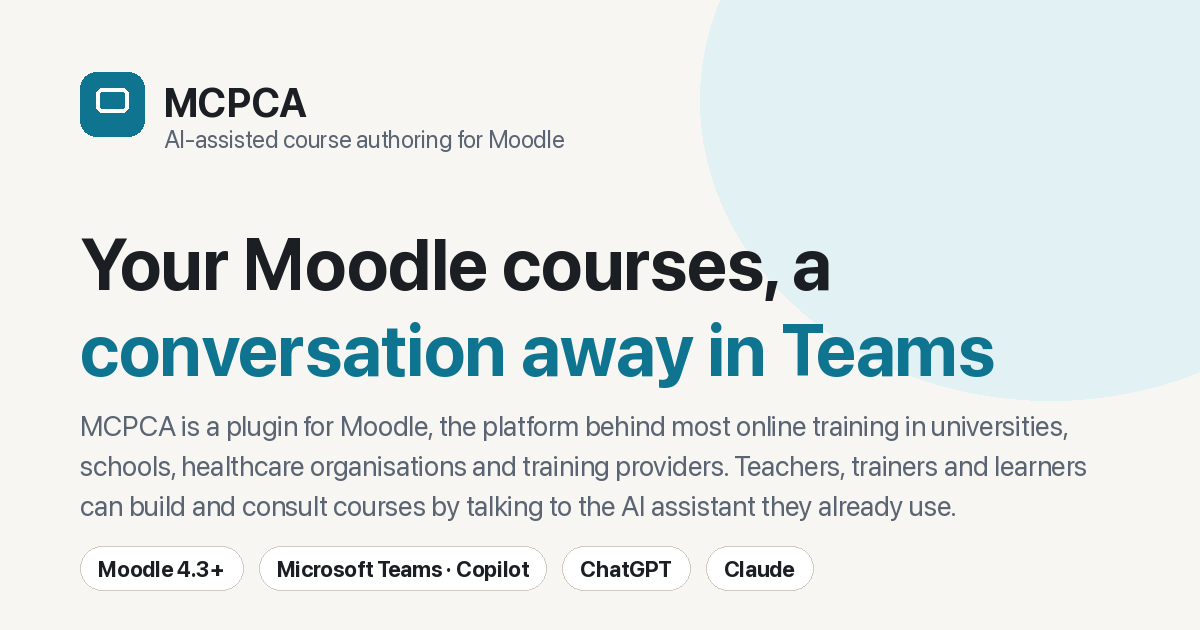
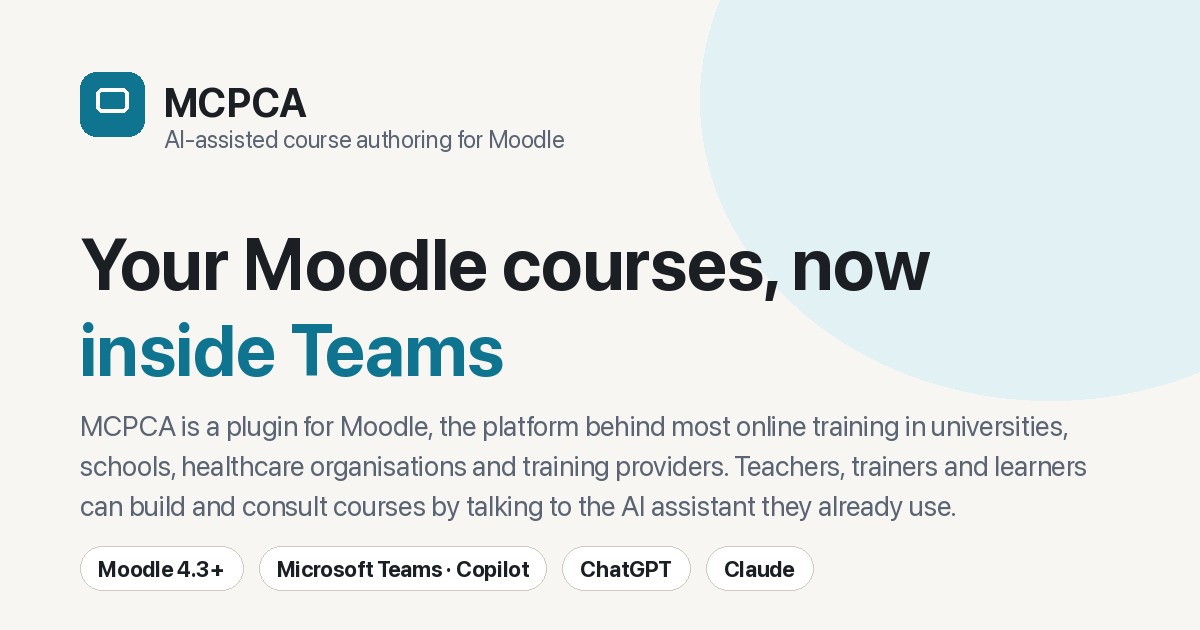
fix: hero order — diagram first, then a connecting line, then the buttons
- the diagram and the CTA row were touching; the diagram now comes first and a
  short line about institutional sign-in separates the two, with a hairline rule
- that line brings back the point dropped when the hero copy was shortened
- on phones the buttons stay above the diagram, which is tall in one column
- a short-screen media query keeps the whole hero above the fold at 1280x720,
  with 32px to spare in both languages
- the English title was running to three lines: 'now inside' replaces
  'a conversation away in'

Changed region(s): [[0.0617, 0.5127, 0.8325, 0.6333], [0.6475, 0.3921, 0.7708, 0.4825]]

diff --git a/static/style.css b/static/style.css
@@ -218,7 +218,7 @@ img, svg { display: inline-block; vertical-align: middle; }
 .stub-notice p { background: var(--student-soft); color: var(--student); border-radius: 10px; padding: 10px 14px; font-weight: 500; margin: 0; }
 
 /* ---------- hero ---------- */
-.hero { padding: 36px 0 52px; position: relative; overflow: hidden; }
+.hero { padding: 26px 0 48px; position: relative; overflow: hidden; }
 .hero::before {
   content: ""; position: absolute; inset: -20% -10% auto -10%; height: 70%; z-index: -1;
   background: radial-gradient(60% 60% at 70% 30%, color-mix(in srgb, var(--accent) 14%, transparent), transparent 70%);
@@ -431,7 +431,7 @@ img, svg { display: inline-block; vertical-align: middle; }
 @media (max-width: 1240px) { .brand-tag { display: none; } }
 .flow-node:first-child { flex: 1.6 1 0; }
 /* Titolo più grande e con più aria sotto: è la prima cosa che si legge. */
-h1 { font-size: clamp(2.2rem, 4.15vw, 3.25rem); line-height: 1.08; margin-bottom: .4em; }
+h1 { font-size: clamp(2.2rem, 4.15vw, 3.25rem); line-height: 1.08; margin-bottom: .36em; }
 .hero-copy .lead { margin-top: 0; }
 
 /* The English tagline is longer than the Italian one: keep it on one line,
@@ -612,7 +612,7 @@ em { font-style: italic; }
 
 /* Nell'hero: prima una riga di contesto in sordina, poi la promessa, che si
    apre con il nome del progetto ed è il paragrafo che deve pesare. */
-.hero-copy .lead-intro { font-size: 1.05rem; color: var(--muted); margin-bottom: .55em; }
+.hero-copy .lead-intro { font-size: 1.05rem; color: var(--muted); margin-bottom: .45em; }
 .hero-copy .lead-promise { font-size: 1.22rem; color: var(--text); line-height: 1.5; }
 .hero-copy .lead-promise .product { font-size: 1.06em; }
 
@@ -620,14 +620,39 @@ em { font-style: italic; }
 /* Su un portatile da 13 pollici la prima schermata deve contenere titolo,
    promessa, pulsanti e lo schema dei tre blocchi: è quello schema a spiegare
    in un colpo d'occhio dove gira il plugin. */
-.hero-copy .flow { margin-top: 20px; }
-.hero-copy .flow-caption { margin-top: 6px; }
+.hero-copy .flow { margin-top: 18px; }
+.hero-copy .flow-caption { margin-top: 8px; margin-bottom: 0; }
 .hero-copy .lead { margin-bottom: .7em; }
-.hero-copy .cta-row { margin-top: 20px; }
+.hero-copy .cta-row { margin-top: 16px; }
+/* Riga di raccordo fra lo schema e i pulsanti: dice chi può fare che cosa,
+   completa il "dove gira" della didascalia e tiene separati i due blocchi. */
+.hero-note {
+  margin: 14px 0 0; padding-top: 14px; border-top: 1px solid var(--border);
+  font-size: .97rem; color: var(--muted);
+}
 .hero-copy .flow-node { padding: 10px 12px; }
 .hero-copy .flow-label { font-size: .88rem; }
 .hero-copy .flow-sub { font-size: .74rem; }
 .hero-visual { gap: 0; }
 @media (max-width: 960px) {
-  .hero-copy .flow { margin-top: 26px; }
+  /* In colonna singola il diagramma è alto: i pulsanti tornano prima, così la
+     chiamata all'azione resta raggiungibile senza scorrere tutto. */
+  .hero-copy { display: flex; flex-direction: column; }
+  .hero-copy .cta-row { order: 1; margin-top: 22px; }
+  .hero-copy .flow { order: 2; margin-top: 26px; }
+  .hero-copy .flow-caption { order: 3; }
+  .hero-copy .hero-note { order: 4; }
+}
+
+
+/* Portatili con schermo basso (13 pollici, 720-780px di altezza utile): l'hero
+   si stringe quel tanto che basta a tenere schema, riga di raccordo e pulsanti
+   sopra la piega. Sui monitor grandi resta arioso. */
+@media (min-width: 961px) and (max-height: 800px) {
+  .hero { padding-top: 18px; }
+  .hero-copy .lead-promise { font-size: 1.16rem; line-height: 1.45; }
+  .hero-copy .flow { margin-top: 14px; }
+  .hero-copy .flow-caption { margin-top: 6px; }
+  .hero-note { margin-top: 12px; padding-top: 12px; }
+  .hero-copy .cta-row { margin-top: 14px; }
 }
